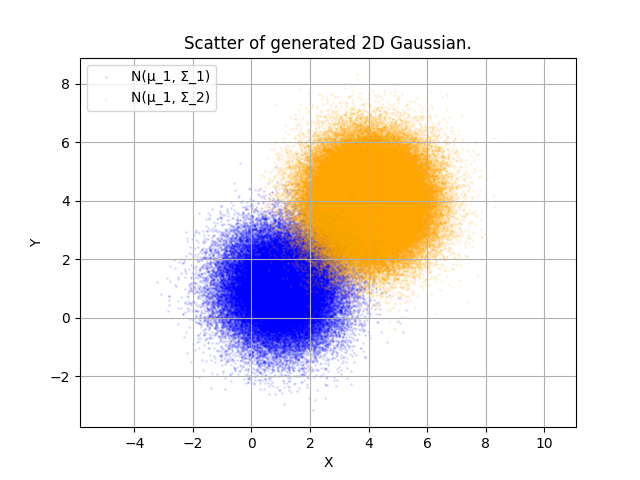
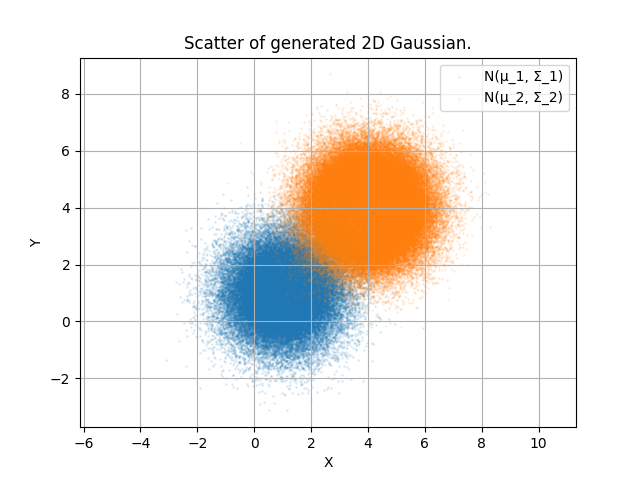
now using np array in generate

diff --git a/generate_normals.py b/generate_normals.py
@@ -29,27 +29,30 @@ def generate_2d_gas_data(
     num_samples: int,
     mean: tuple[float, float] = (0, 0),
     std: tuple[float, float] = (1.0, 1.0),
-) -> tuple[list[float], list[float]]:
+) -> np.ndarray:
     """Generate 2D Gaussian data using independent standard deviations."""
-    x = []
-    y = []
+    points = []
 
     for _ in range(num_samples):
         g1, g2 = gaussian_deviate()
 
-        x.append(g1 * std[0] + mean[0])
-        y.append(g2 * std[1] + mean[1])
+        x_val = g1 * std[0] + mean[0]
+        y_val = g2 * std[1] + mean[1]
 
-    return x, y
+        points.append([x_val, y_val])
+
+    return np.array(points)
 
 
-def plot_2d_gas(x1, y1, x2, y2, fig_path="gas.png") -> None:  # noqa: ANN001
+def plot_2d_gas(points: tuple[np.ndarray], fig_path: str = "gas.png") -> None:
     """Plot 2D Gaussian data."""
     fig_path.parent.mkdir(parents=True, exist_ok=True)
 
     plt.figure()
-    plt.scatter(x1, y1, s=1, alpha=0.1, color="blue", label="N(μ_1, Σ_1)")
-    plt.scatter(x2, y2, s=1, alpha=0.1, color="orange", label="N(μ_1, Σ_2)")
+    for i, point in enumerate(points):
+        x = point[:, 0]
+        y = point[:, 1]
+        plt.scatter(x, y, s=1, alpha=0.1, label=f"N(μ_{i + 1}, Σ_{i + 1})", color=f"C{i}")
     plt.title("Scatter of generated 2D Gaussian.")
     plt.xlabel("X")
     plt.ylabel("Y")
@@ -64,7 +67,7 @@ if __name__ == "__main__":
     plot_dir = pathlib.Path("attachments")
 
     # Generate dataset A
-    x1, y1 = generate_2d_gas_data(60000, mean=(1, 1), std=(1.0, 1.0))
-    x2, y2 = generate_2d_gas_data(140000, mean=(4, 4), std=(1.0, 1.0))
+    points1 = generate_2d_gas_data(60000, mean=(1, 1), std=(1.0, 1.0))
+    points2 = generate_2d_gas_data(140000, mean=(4, 4), std=(1.0, 1.0))
     path = plot_dir / "plotted_dataset_A.png"
-    plot_2d_gas(x1, y1, x2, y2, fig_path=path)
+    plot_2d_gas((points1, points2), fig_path=path)
